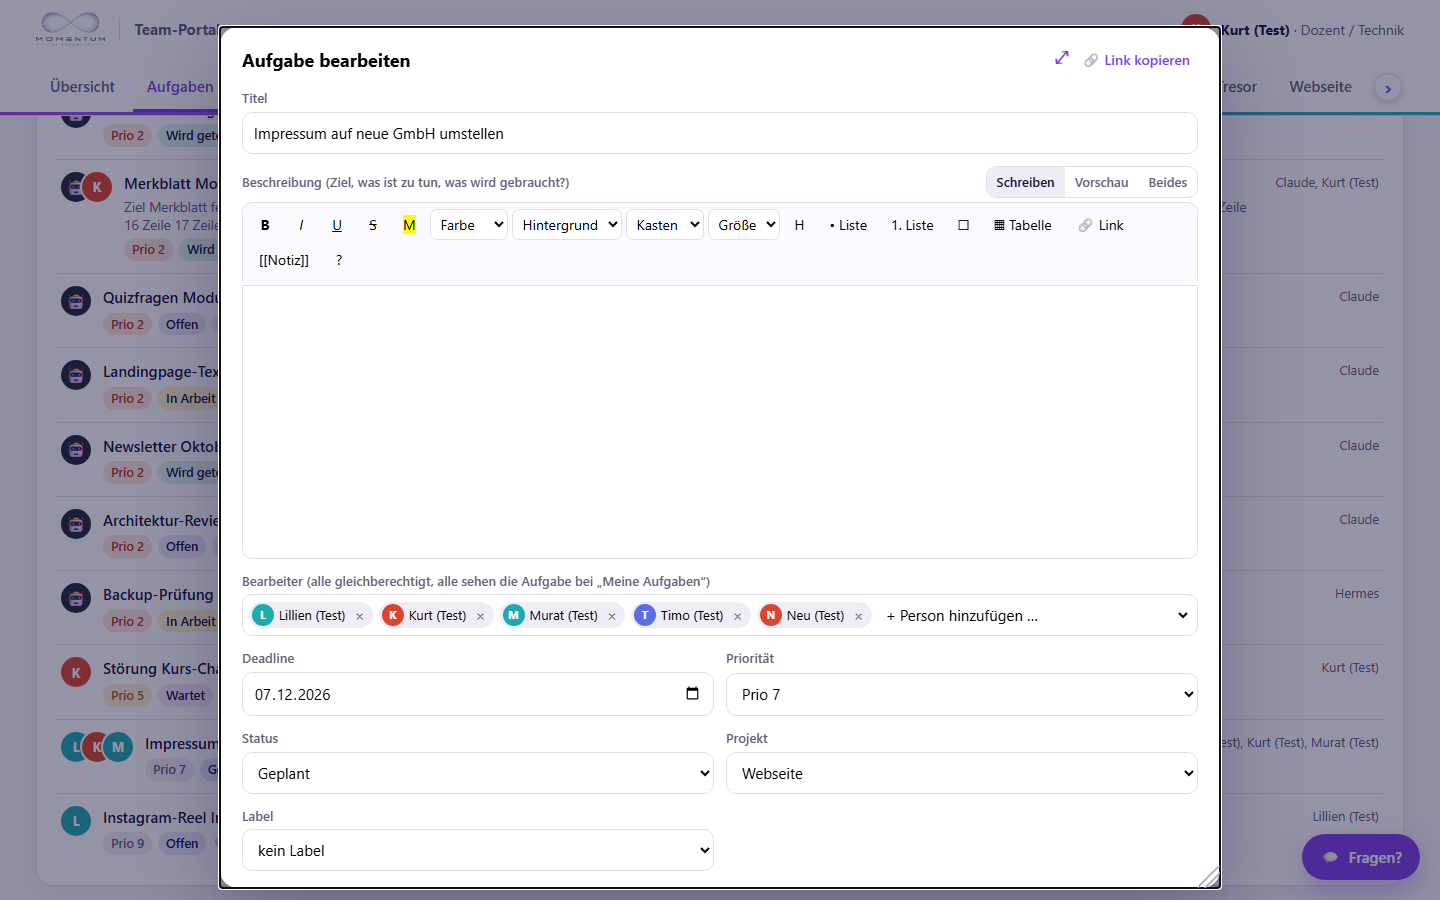
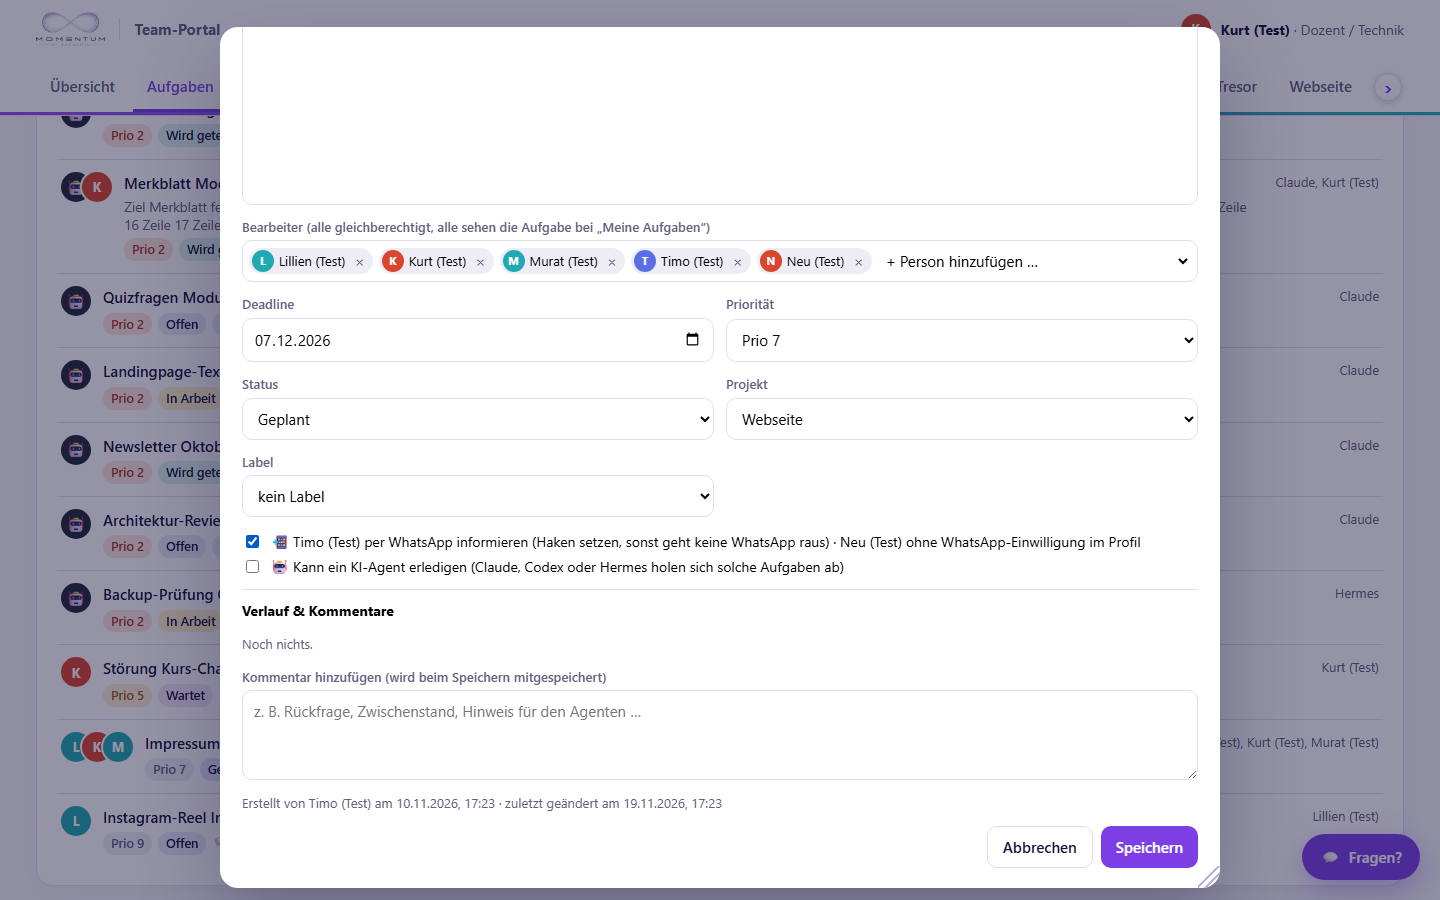
Team-Portal: WhatsApp-Haken nie vorausgewählt (nur auf ausdrücklichen Klick)
Timo 23.11.2026: Die automatische WhatsApp geht nur raus, wenn man den Haken selbst setzt.
Ohne Haken wird der Eintrag in der Warteschlange gleich nach dem Speichern storniert.

diff --git a/docs/team/index.html b/docs/team/index.html
@@ -1226,7 +1226,7 @@ body[data-tab="whatsapp"] #kiBtn{display:none}
       '<div class="f"><label for="a_s">Status</label><select id="a_s">' + opt(STATUS, a.status) + '</select></div>' +
       '<div class="f"><label for="a_j">Projekt</label>' + projSelect('a_j', a.projekt) + '</div>' +
       '<div class="f"><label for="a_l">Label</label><select id="a_l">' + opt(LABELS, a.label, v => v || 'kein Label') + '</select></div></div>' +
-      '<label class="check" style="margin:2px 0 4px" id="a_wa_l"><input type="checkbox" id="a_wa" checked><span id="a_wa_t"></span></label>' +
+      '<label class="check" style="margin:2px 0 4px" id="a_wa_l"><input type="checkbox" id="a_wa"><span id="a_wa_t"></span></label>' +
       '<label class="check" style="margin:2px 0 10px"><input type="checkbox" id="a_ki"' + (a.agent_geeignet === true ? ' checked' : '') + '><span>🤖 Kann ein KI-Agent erledigen (Claude, Codex oder Hermes holen sich solche Aufgaben ab)</span></label>' +
       verlaufHtml(a) +
       (!neu ? '<p class="small muted" id="a_daten">Erstellt ' + (a.erstellt_von ? 'von ' + esc(mitglied(a.erstellt_von).name) + ' ' : '') + 'am ' + esc(datumLang(a.erstellt)) + ' · zuletzt geändert am ' + esc(datumLang(a.geaendert)) + (a.erledigt_am ? ' · erledigt am ' + fmtD(a.erledigt_am) : '') + '</p>' : '') +
@@ -1260,8 +1260,9 @@ body[data-tab="whatsapp"] #kiBtn{display:none}
       const neuM = neuDabei().filter(x => !istKI(x)), mitWa = neuM.filter(waAuto), ohne = neuM.filter(x => !waAuto(x));
       $('#a_wa_l').style.display = neuM.length && WA_AUTO_AKTIV ? '' : 'none';
       const kann = mitWa.length > 0;
-      $('#a_wa').disabled = !kann; if (!kann) $('#a_wa').checked = false; else if ($('#a_wa').dataset.angefasst !== '1') $('#a_wa').checked = true;
-      $('#a_wa_t').innerHTML = kann ? '📲 ' + esc(namen(mitWa)) + ' automatisch per WhatsApp informieren (über HermetikFlow)' + (ohne.length ? ' · ' + esc(namen(ohne)) + ' ohne WhatsApp-Einwilligung im Profil' : '')
+      // Timo 23.11.2026: Der Haken ist nie vorausgewählt, die WhatsApp geht nur raus, wenn man ihn selbst setzt
+      $('#a_wa').disabled = !kann; if (!kann) $('#a_wa').checked = false;
+      $('#a_wa_t').innerHTML = kann ? '📲 ' + esc(namen(mitWa)) + ' per WhatsApp informieren (Haken setzen, sonst geht keine WhatsApp raus)' + (ohne.length ? ' · ' + esc(namen(ohne)) + ' ohne WhatsApp-Einwilligung im Profil' : '')
         : '📲 Automatische WhatsApp nicht möglich: ' + esc(namen(ohne)) + (ohne.length > 1 ? ' haben' : ' hat') + ' keine Handynummer oder WhatsApp-Benachrichtigungen im Profil nicht aktiviert.';
     };
     $('#a_wa').onchange = () => { $('#a_wa').dataset.angefasst = '1'; }; bZeigen();
